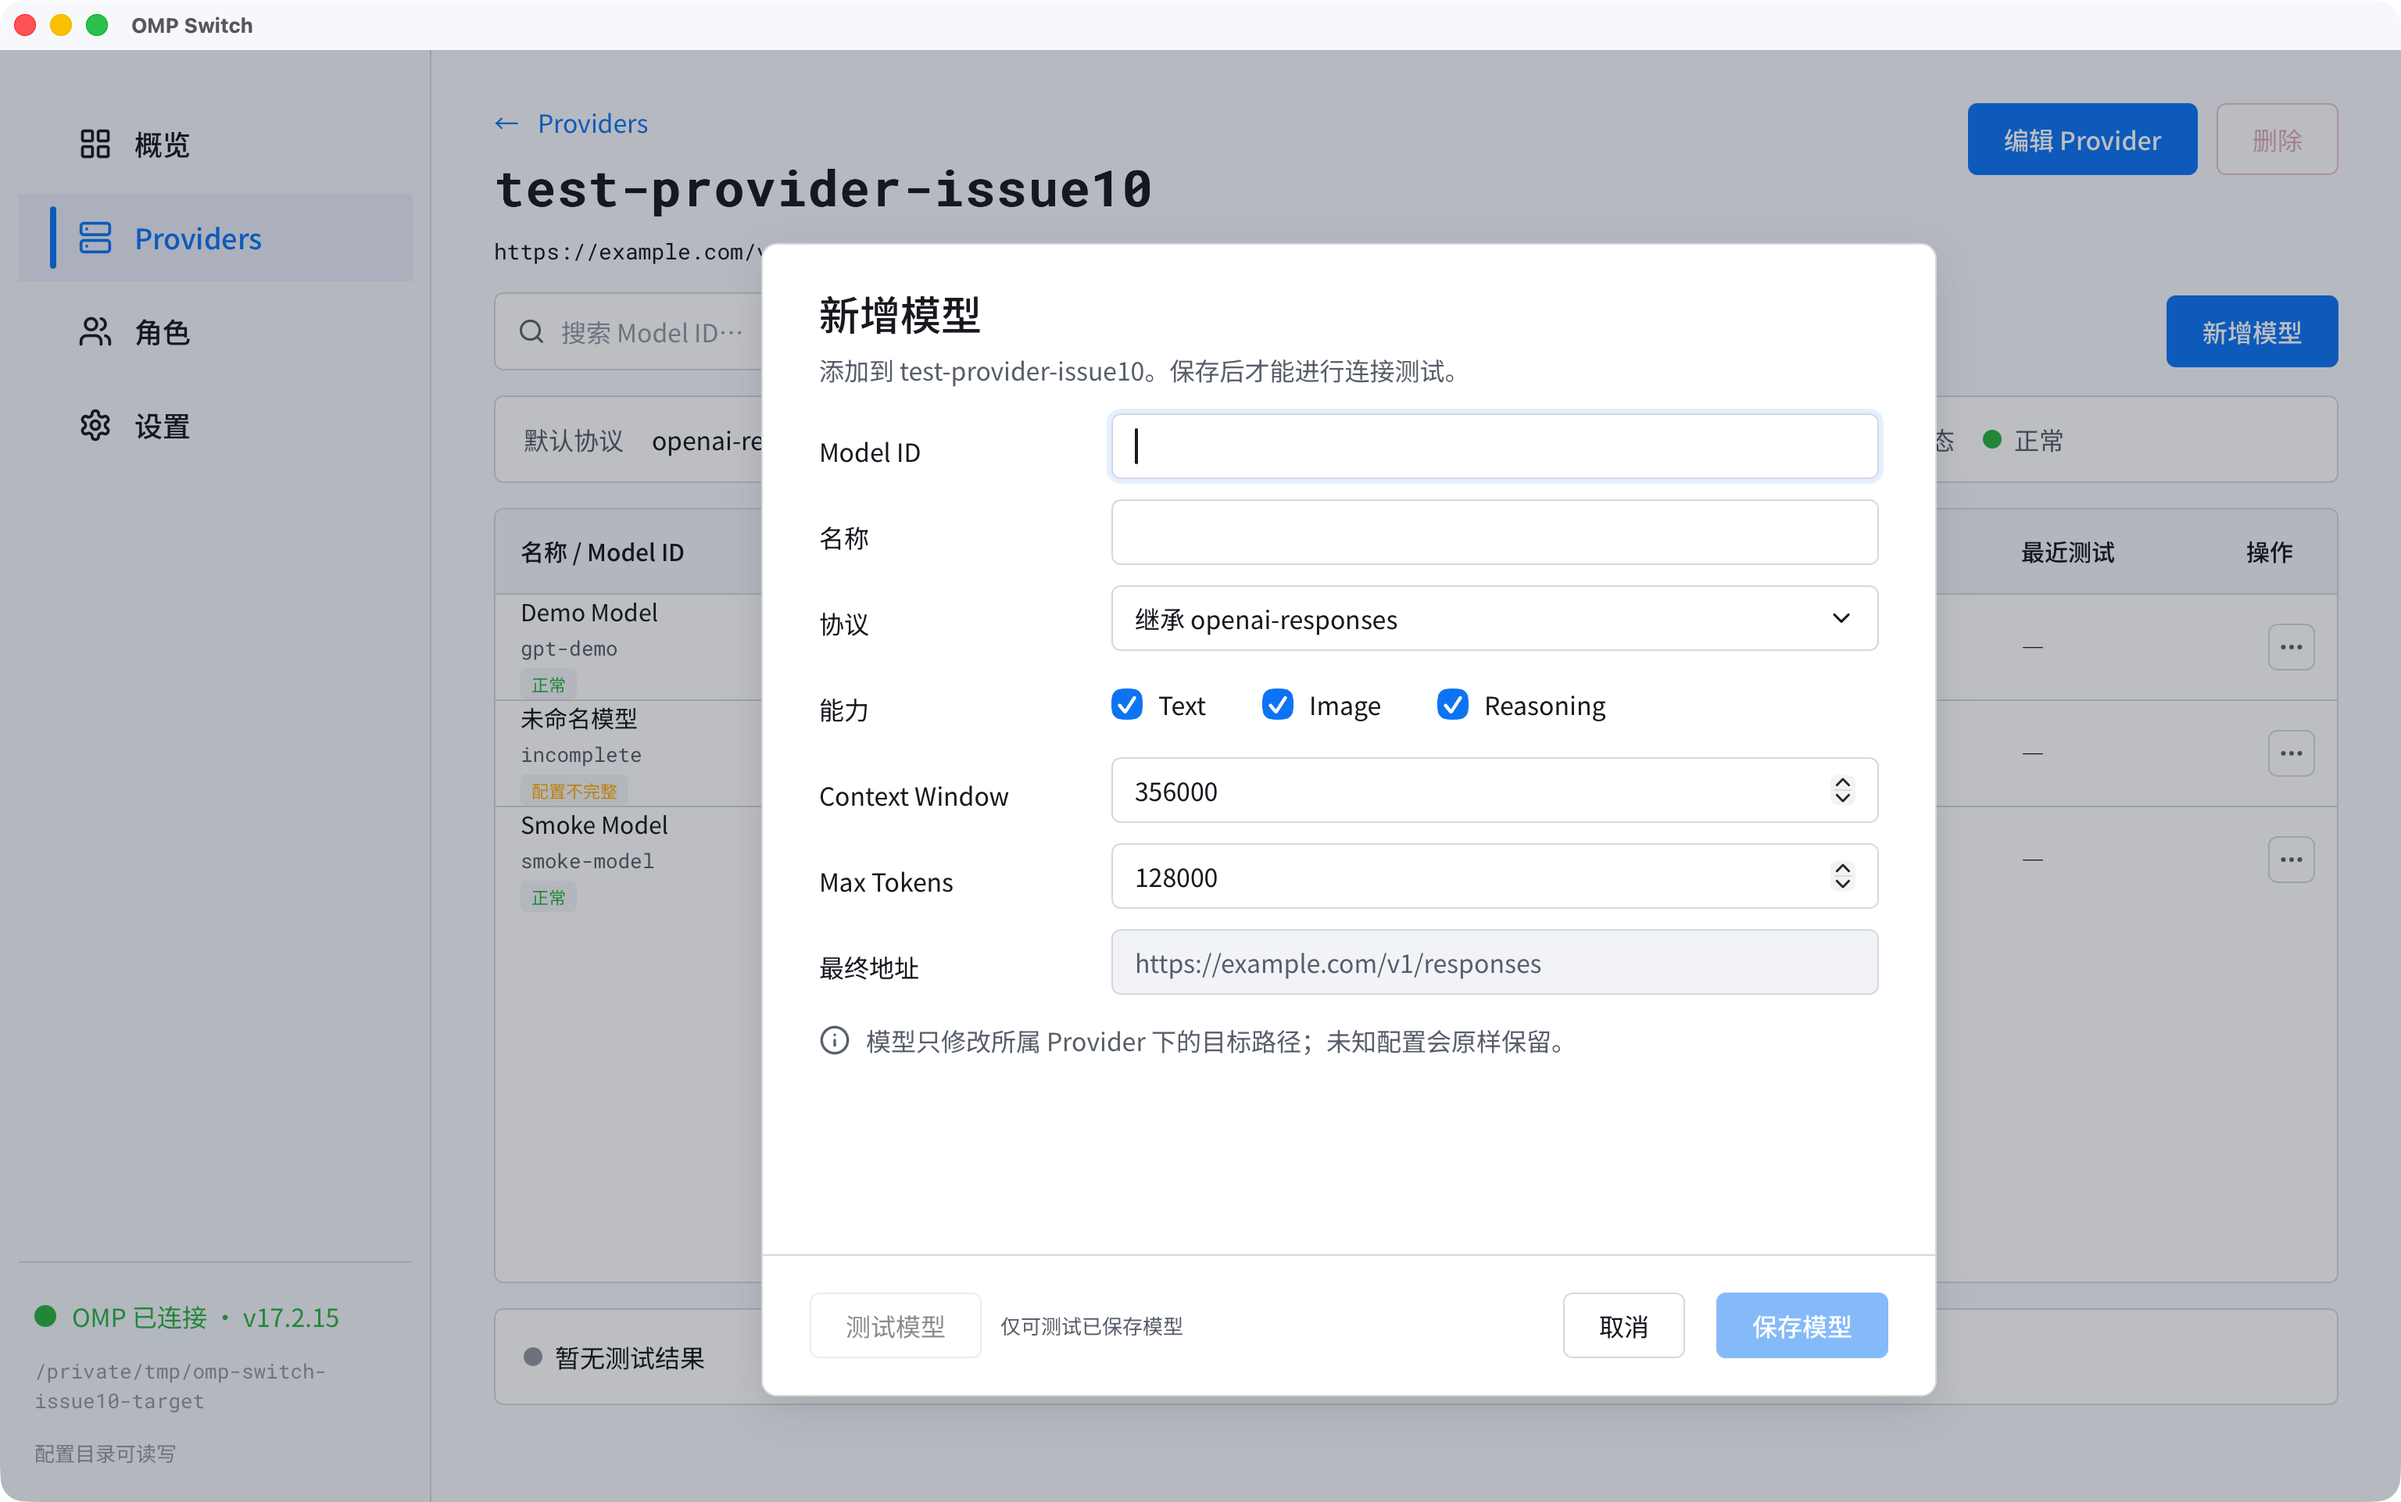
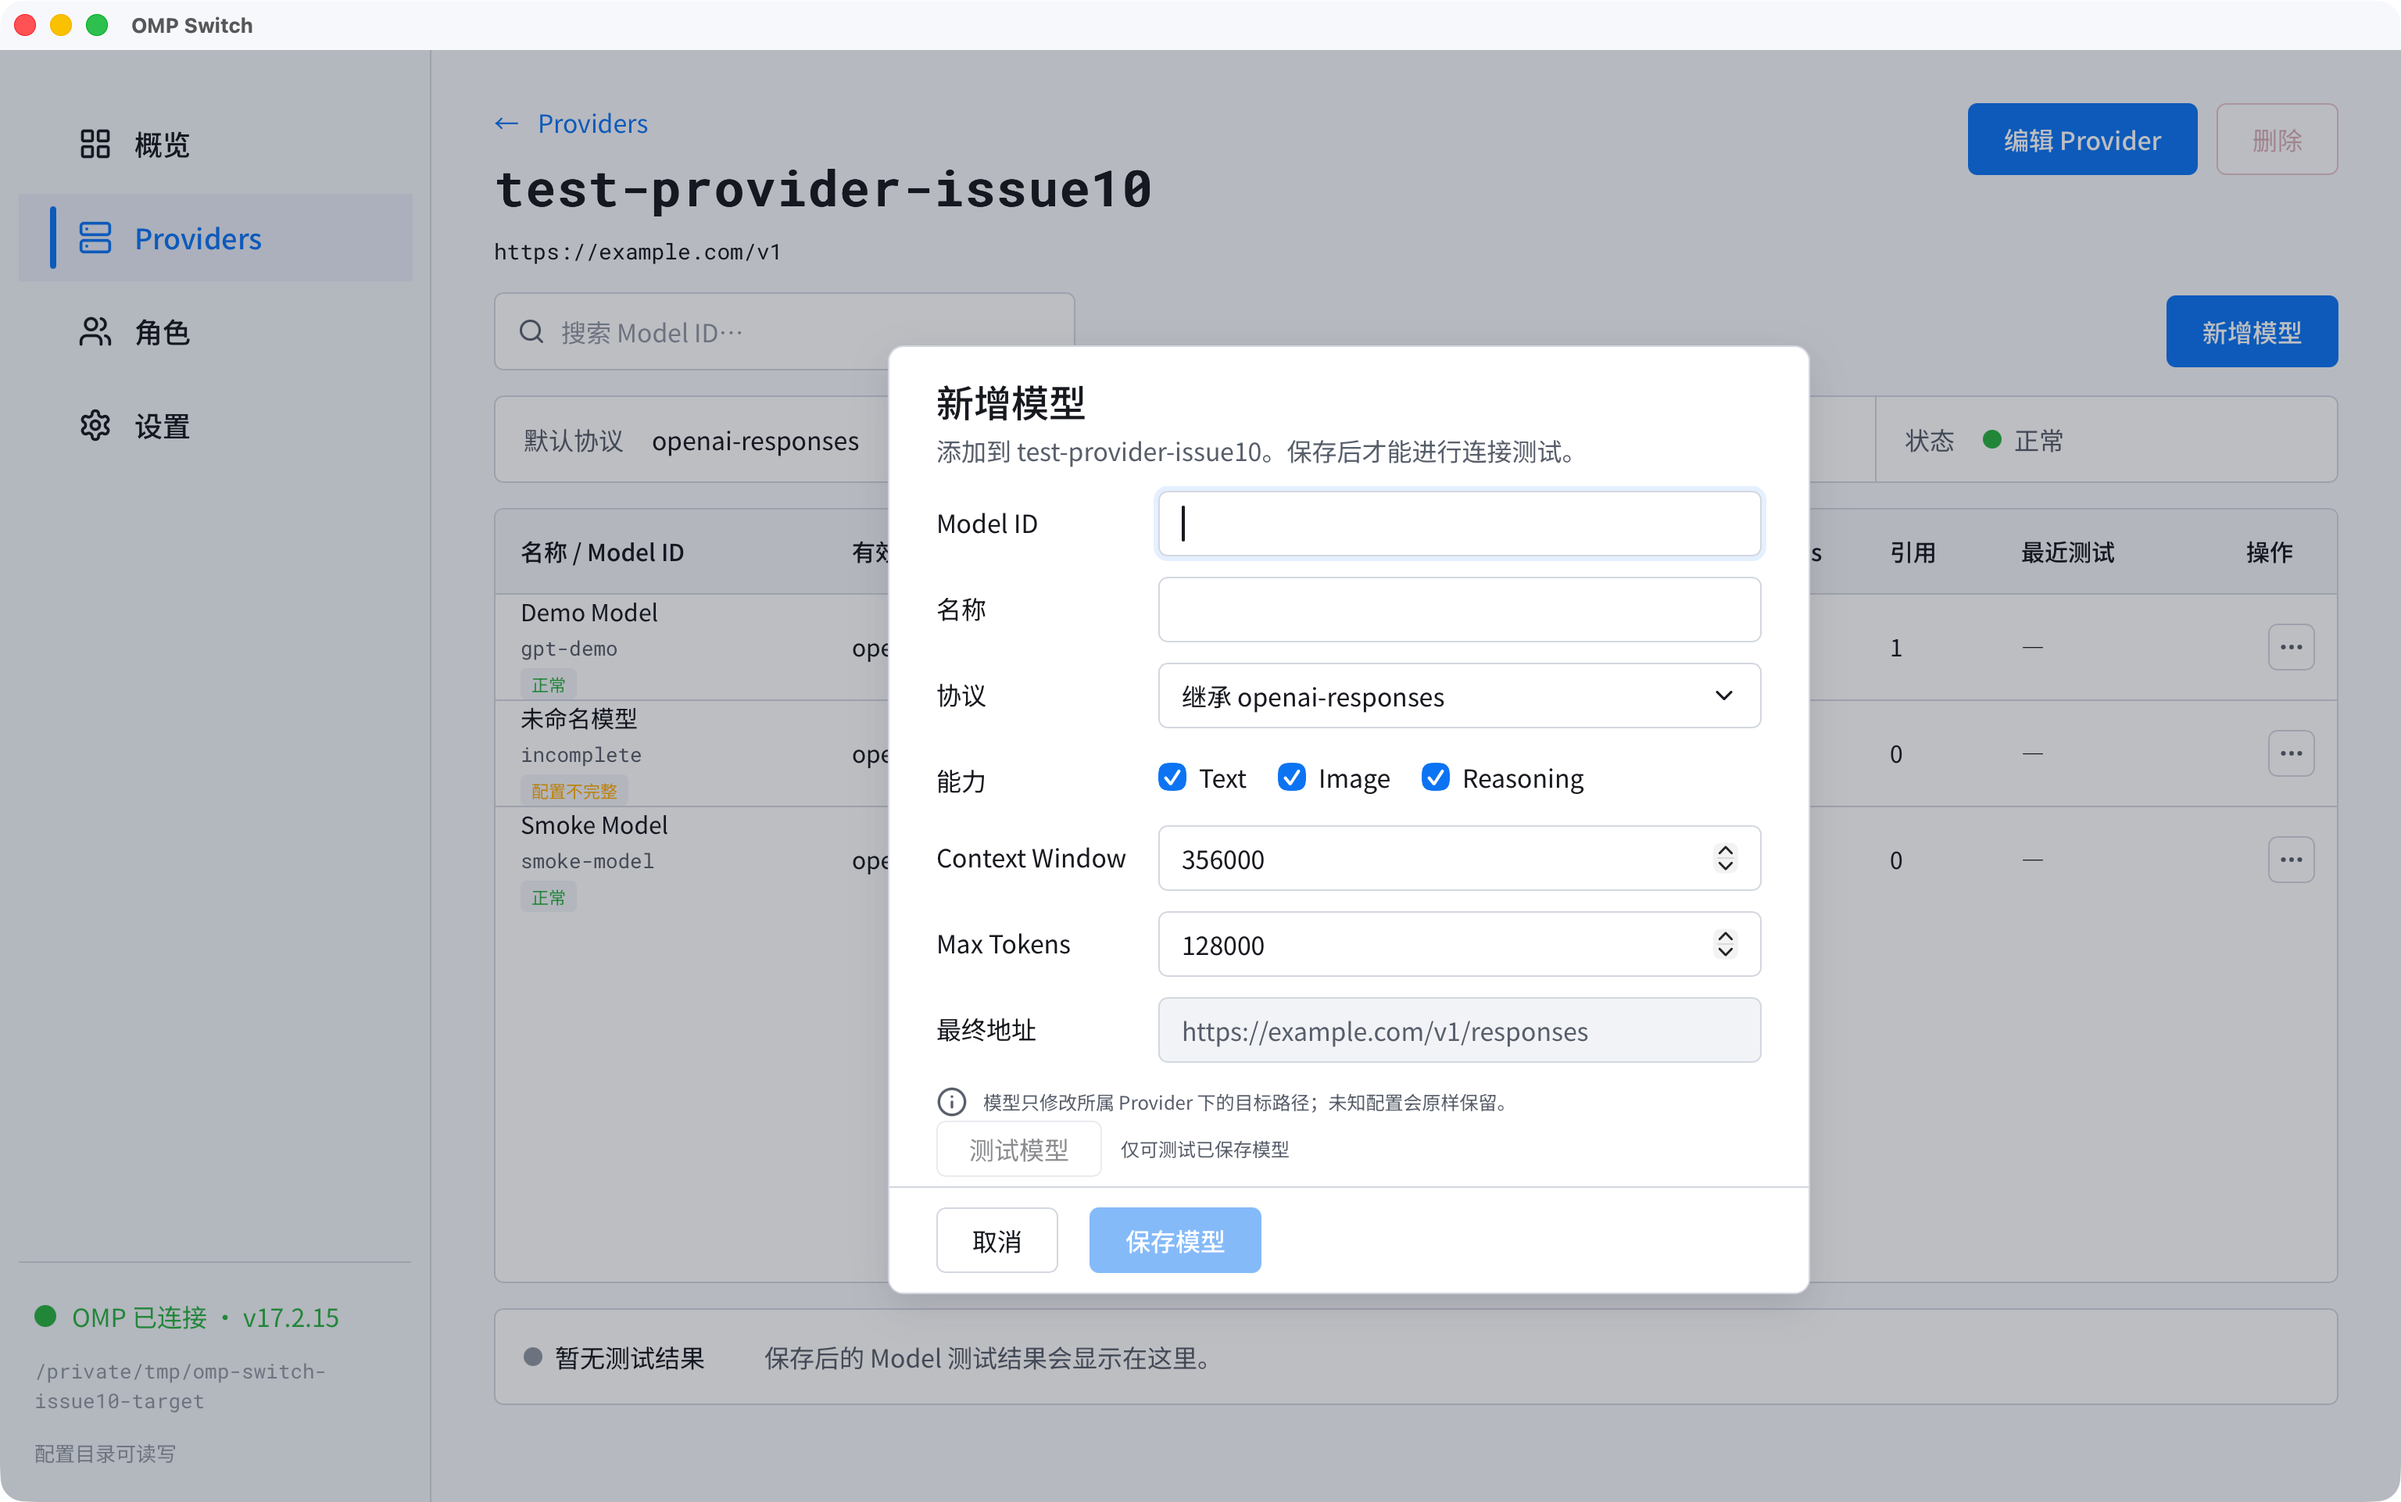
fix: align model sheet with approved design

Changed region(s): [[0.3125, 0.1561, 0.8125, 0.9365], [0.6875, 0.5931, 0.7188, 0.6243], [0.4062, 0.3434, 0.4375, 0.3746]]

diff --git a/src/styles/app.css b/src/styles/app.css
@@ -302,10 +302,12 @@ a { color: inherit; text-decoration: none; }
 }
 
 .provider-create-dialog { width: min(814px, calc(100vw - 48px)); height: min(677px, calc(100vh - 48px)); padding: 0; overflow: hidden; }
-.provider-create-dialog--model { width: min(752px, calc(100vw - 48px)); height: min(738px, calc(100vh - 48px)); }
+.provider-create-dialog--model { width: min(590px, calc(100vw - 48px)); height: min(607px, calc(100vh - 48px)); }
 .provider-create-form { height: 100%; display: grid; grid-template-rows: minmax(0, 1fr) auto; }
 .provider-create-form__body { min-height: 0; overflow: auto; overscroll-behavior: contain; padding: 28px 30px 27px; }
 .provider-create-heading { display: grid; gap: 8px; }
+.provider-create-dialog--model .provider-create-heading { gap: 4px; }
+.provider-create-dialog--model .provider-create-heading h2 { font-size: 24px; }
 .provider-create-heading h2 { margin: 0; font-size: 26px; line-height: 1.25; font-weight: var(--font-weight-medium); }
 .provider-create-step { margin: 6px 0 0; color: var(--color-primary); font-size: 18px; font-weight: var(--font-weight-medium); }
 .provider-create-step__current { display: inline-flex; width: 22px; height: 22px; align-items: center; justify-content: center; border-radius: 50%; background: var(--color-primary); color: #ffffff; font-size: 14px; line-height: 1; vertical-align: 1px; }
@@ -339,16 +341,18 @@ a { color: inherit; text-decoration: none; }
 .provider-create-footer { min-height: 90px; display: flex; align-items: center; justify-content: space-between; gap: 18px; padding: 20px 30px; border-top: 1px solid var(--color-border); background: var(--color-bg-surface); }
 .provider-create-footer__actions { display: flex; justify-content: flex-end; gap: 20px; }
 .provider-create-footer .app-button { min-height: 46px; padding-inline: 22px; }
-.provider-create-dialog--model .provider-create-form__body { padding: 28px 36px 22px; }
-.provider-create-dialog--model .provider-create-fields { margin-top: 16px; }
-.provider-create-dialog--model .provider-create-field, .provider-create-dialog--model .provider-create-capabilities { grid-template-columns: 167px minmax(0, 1fr); }
+.provider-create-dialog--model .provider-create-form__body { padding: 20px 30px 12px; }
+.provider-create-dialog--model .provider-create-fields { margin-top: 14px; }
+.provider-create-dialog--model .provider-create-field, .provider-create-dialog--model .provider-create-capabilities { grid-template-columns: 126px minmax(0, 1fr); gap: 16px; }
 .provider-create-dialog--model .provider-create-field input, .provider-create-dialog--model .provider-create-select { min-height: 42px; }
+.provider-create-dialog--model .provider-create-field > label { padding-top: 8px; }
 .provider-create-dialog--model .provider-create-field-error { min-height: 12px; margin: 1px 0 0; font-size: 11px; line-height: 12px; }
-.provider-create-dialog--model .provider-create-capabilities > div { min-height: 42px; }
+.provider-create-dialog--model .provider-create-capabilities > div { min-height: 36px; }
 .provider-create-dialog--model .provider-create-footer .app-button { min-height: 42px; }
-.provider-create-dialog--model .provider-create-capabilities { position: relative; display: block; padding-left: 187px; }
-.provider-create-dialog--model .provider-create-capabilities legend { position: absolute; top: 0; left: 0; padding-top: 12px; }
-.provider-create-dialog--model .provider-create-capabilities > div { min-height: 42px; }
+.provider-create-dialog--model .provider-create-footer { min-height: 68px; padding: 10px 30px; }
+.provider-create-dialog--model .provider-create-capabilities { position: relative; display: block; padding-left: 142px; }
+.provider-create-dialog--model .provider-create-capabilities legend { position: absolute; top: 0; left: 0; padding-top: 8px; }
+.provider-create-dialog--model .provider-create-capabilities > div { min-height: 36px; }
 .provider-create-dialog--model .provider-create-capabilities .provider-create-field-error { display: block; grid-column: auto; }
 @media (max-width: 760px) {
   .provider-create-dialog--model .provider-create-capabilities { padding-left: 0; }
@@ -360,11 +364,10 @@ a { color: inherit; text-decoration: none; }
 .provider-create-summary { min-width: 0; min-height: 45px; display: flex; align-items: center; gap: 10px; margin-top: 18px; padding: 0 16px; overflow: hidden; border: 1px solid var(--color-border); border-radius: var(--radius-sm); background: var(--color-bg-subtle); color: var(--color-text-secondary); font-size: 13px; white-space: nowrap; }
 .provider-create-summary code { min-width: 0; overflow: hidden; color: var(--color-text-primary); text-overflow: ellipsis; font-family: var(--font-mono); font-size: 13px; }
 .provider-create-summary strong { overflow: hidden; color: var(--color-text-primary); font-weight: var(--font-weight-medium); text-overflow: ellipsis; }
-.provider-create-capabilities > div { min-height: 50px; display: flex; align-items: center; gap: 36px; }
-.provider-create-capabilities label { display: inline-flex; align-items: center; gap: 10px; color: var(--color-text-primary); white-space: nowrap; }
-.provider-create-capabilities input { width: 20px; height: 20px; margin: 0; accent-color: var(--color-primary); }
-.provider-create-capabilities .provider-create-field-error { grid-column: 2; }
-.provider-create-model-note { margin-top: 4px; }
+.provider-create-capabilities > div { min-height: 50px; display: flex; align-items: center; gap: 20px; }
+.provider-create-capabilities label { display: inline-flex; align-items: center; gap: 8px; color: var(--color-text-primary); white-space: nowrap; }
+.provider-create-capabilities input { width: 18px; height: 18px; margin: 0; accent-color: var(--color-primary); }
+.provider-create-model-note { margin-top: 2px; font-size: 12px; }
 .provider-create-submit-error { min-width: 0; display: flex; align-items: center; gap: 16px; margin-top: 4px; padding: 14px 16px; border: 1px solid color-mix(in srgb, var(--color-danger) 45%, var(--color-border)); border-radius: var(--radius-md); background: var(--color-bg-surface); }
 .provider-create-submit-error > div { min-width: 0; flex: 1; }
 .provider-create-submit-error strong { font-weight: var(--font-weight-medium); }
@@ -434,8 +437,8 @@ a { color: inherit; text-decoration: none; }
 .provider-detail-model-error > div { min-width: 0; flex: 1; }
 .provider-detail-model-error strong { font-weight: var(--font-weight-medium); }
 .provider-detail-model-error p { margin: 4px 0 0; color: var(--color-text-secondary); overflow-wrap: anywhere; }
-.model-create-sheet-test { min-width: 0; display: flex; align-items: center; gap: 12px; color: var(--color-text-secondary); font-size: 13px; }
-.model-create-sheet-test .app-button { min-height: 42px; }
+.model-create-sheet-test { min-width: 0; display: flex; align-items: center; gap: 12px; margin-top: 2px; color: var(--color-text-secondary); font-size: 12px; }
+.model-create-sheet-test .app-button { min-height: 36px; }
 
 .provider-edit-dialog { width: min(720px, calc(100vw - 48px)); height: min(690px, calc(100vh - 48px)); padding: 0; overflow: hidden; }
 .provider-edit-form { height: 100%; display: grid; grid-template-rows: minmax(0, 1fr) auto; }

diff --git a/src/app/ModelCreateSheet.tsx b/src/app/ModelCreateSheet.tsx
@@ -263,6 +263,7 @@ export function ModelCreateSheet({
                 </FormRow>
               </div>
               <p className="provider-create-model-note"><Info aria-hidden="true" />模型只修改所属 Provider 下的目标路径；未知配置会原样保留。</p>
+              <div className="model-create-sheet-test"><Button type="button" variant="secondary" disabled title="请先保存 Model definition">测试模型</Button><span>仅可测试已保存模型</span></div>
               {submissionError ? (
                 <section ref={feedbackRef} className="provider-create-submit-error" role="alert" aria-live="assertive">
                   <div><strong>{submissionError.code === "models-hash-conflict" ? "配置冲突" : "无法保存 Model"}</strong><p>{submissionError.message}</p><p>{submissionError.action}</p></div>
@@ -271,7 +272,6 @@ export function ModelCreateSheet({
               ) : null}
             </div>
             <footer className="provider-create-footer">
-              <div className="model-create-sheet-test"><Button type="button" variant="secondary" disabled title="请先保存 Model definition">测试模型</Button><span>仅可测试已保存模型</span></div>
               <div className="provider-create-footer__actions">
                 <Button type="button" variant="secondary" disabled={submitting} onClick={requestDismiss}>取消</Button>
                 <Button type="submit" disabled={!canSave} aria-busy={submitting}>{submitting ? "保存中…" : "保存模型"}</Button>
